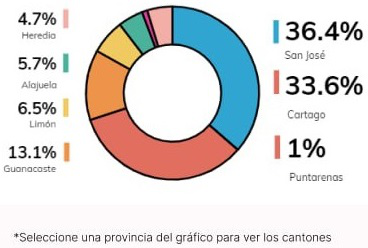
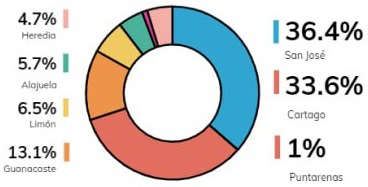
Modificaciones

diff --git a/pages/grafico_provincias.tsx b/pages/grafico_provincias.tsx
@@ -60,33 +60,26 @@ export default function Home() {
 
         {/* Estas filas contienen la información respectiva de cada página, en este caso muestra el gráfico del código QR respectivo */}
         <div className="ui vertically divided bottom aligned grid">
-          <div className="two column row"></div>
-          {/**/}
+          <div className="nine column row">
+            <div className="nine wide column">
+              <img src="/grafico.png" />
+              <h5>
+                *Seleccione una provincia del gráfico para ver los cantones
+              </h5>
+            </div>
 
-          <div className="one wide column">
-            <img src="/grafico.png" />
-            <br />
-            <br />
-            <br />
-            <br />
-          </div>
-
-          <div className="right aligned header">
-            <h1>Número total de vistas</h1>
-            <h2>----------------------</h2>
-
-            <div className="one wide column">
+            <div className="nine wide column">
+              <div className="middle aligned header">
+                <h1>Número total de vistas</h1>
+                <h2>----------------------</h2>
+              </div>
               <button className="ui small button">
                 <a href="/">
                   <h3>Regresar</h3>
                 </a>
               </button>
             </div>
-            <br />
-            <br />
           </div>
-
-          {/**/}
         </div>
       </div>
     </>
